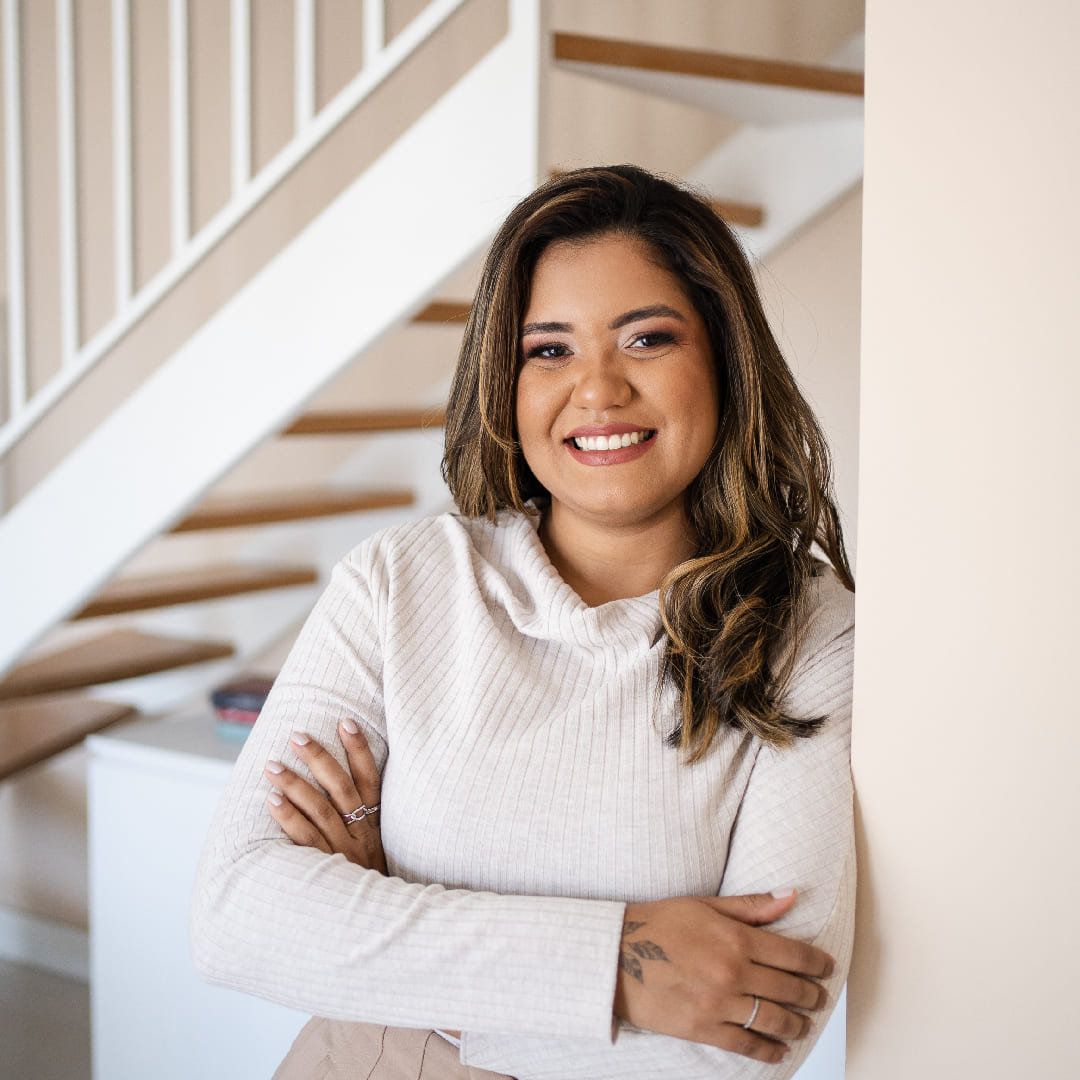
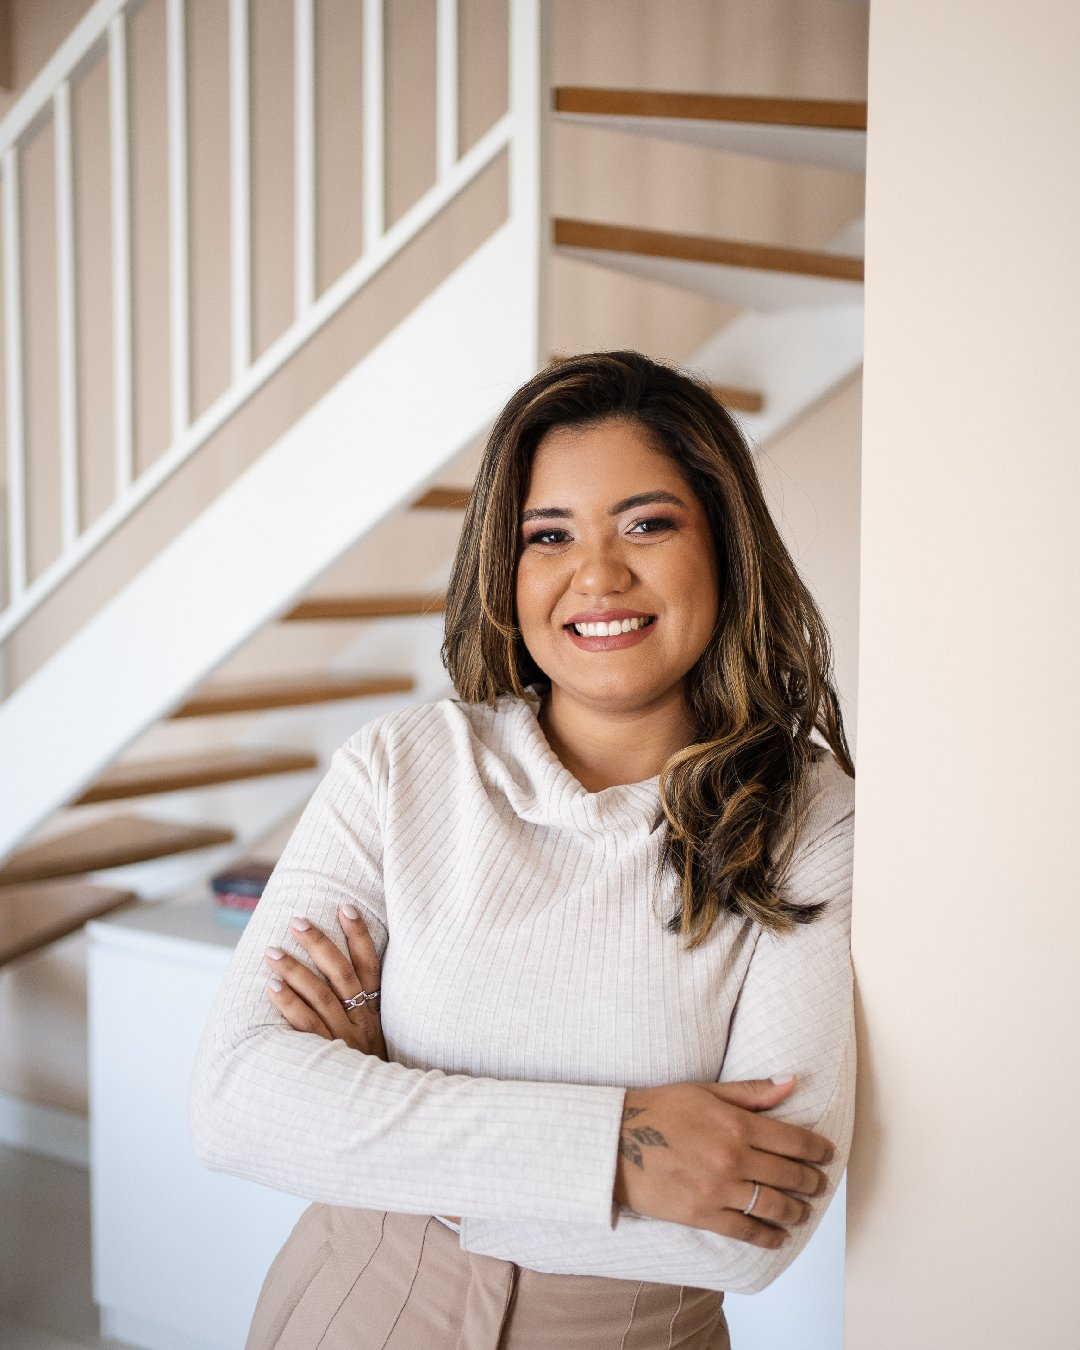
render: otimização de imagens

diff --git a/index.html b/index.html
@@ -172,7 +172,7 @@
 							</div>
 						</div>
 					</div>
-						<div class="one-forth services-img" style="background-image: url(images/about__.jpg);"> </div>
+						<div class="one-forth services-img" style="background-image: url(images/extended.jpg);"> </div>
 					</div>
 				</div>
 			</div>
